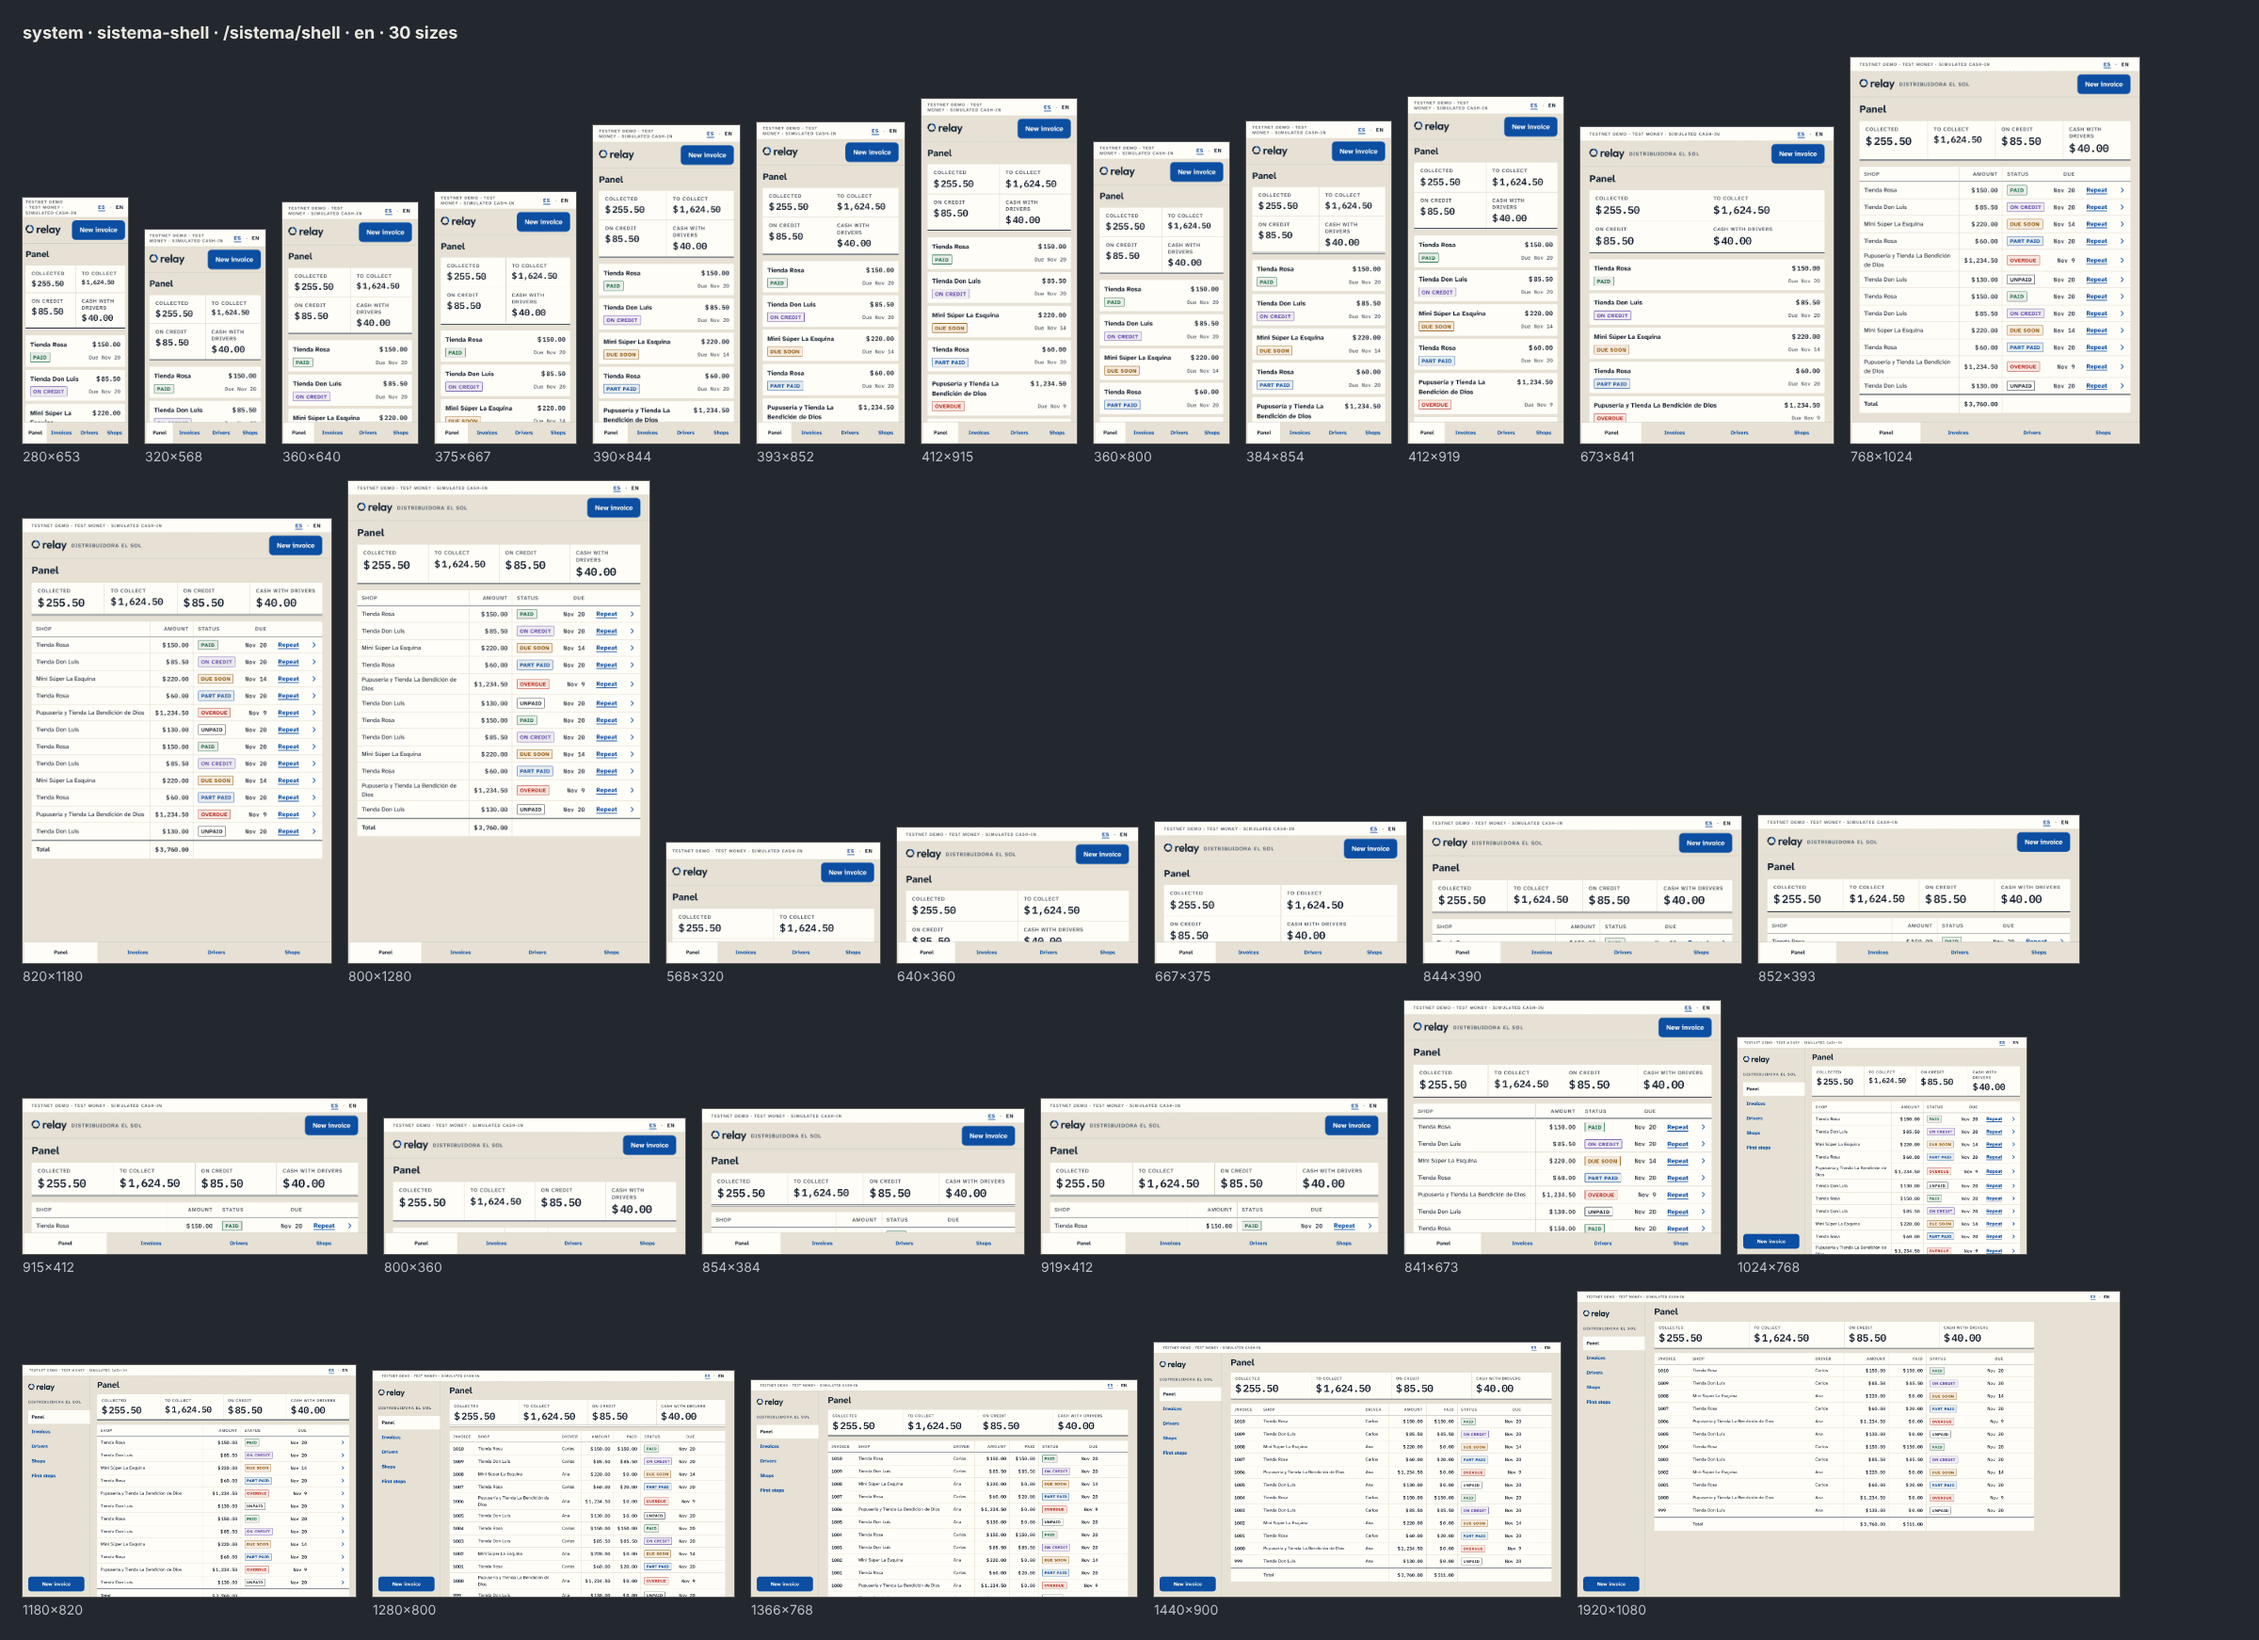
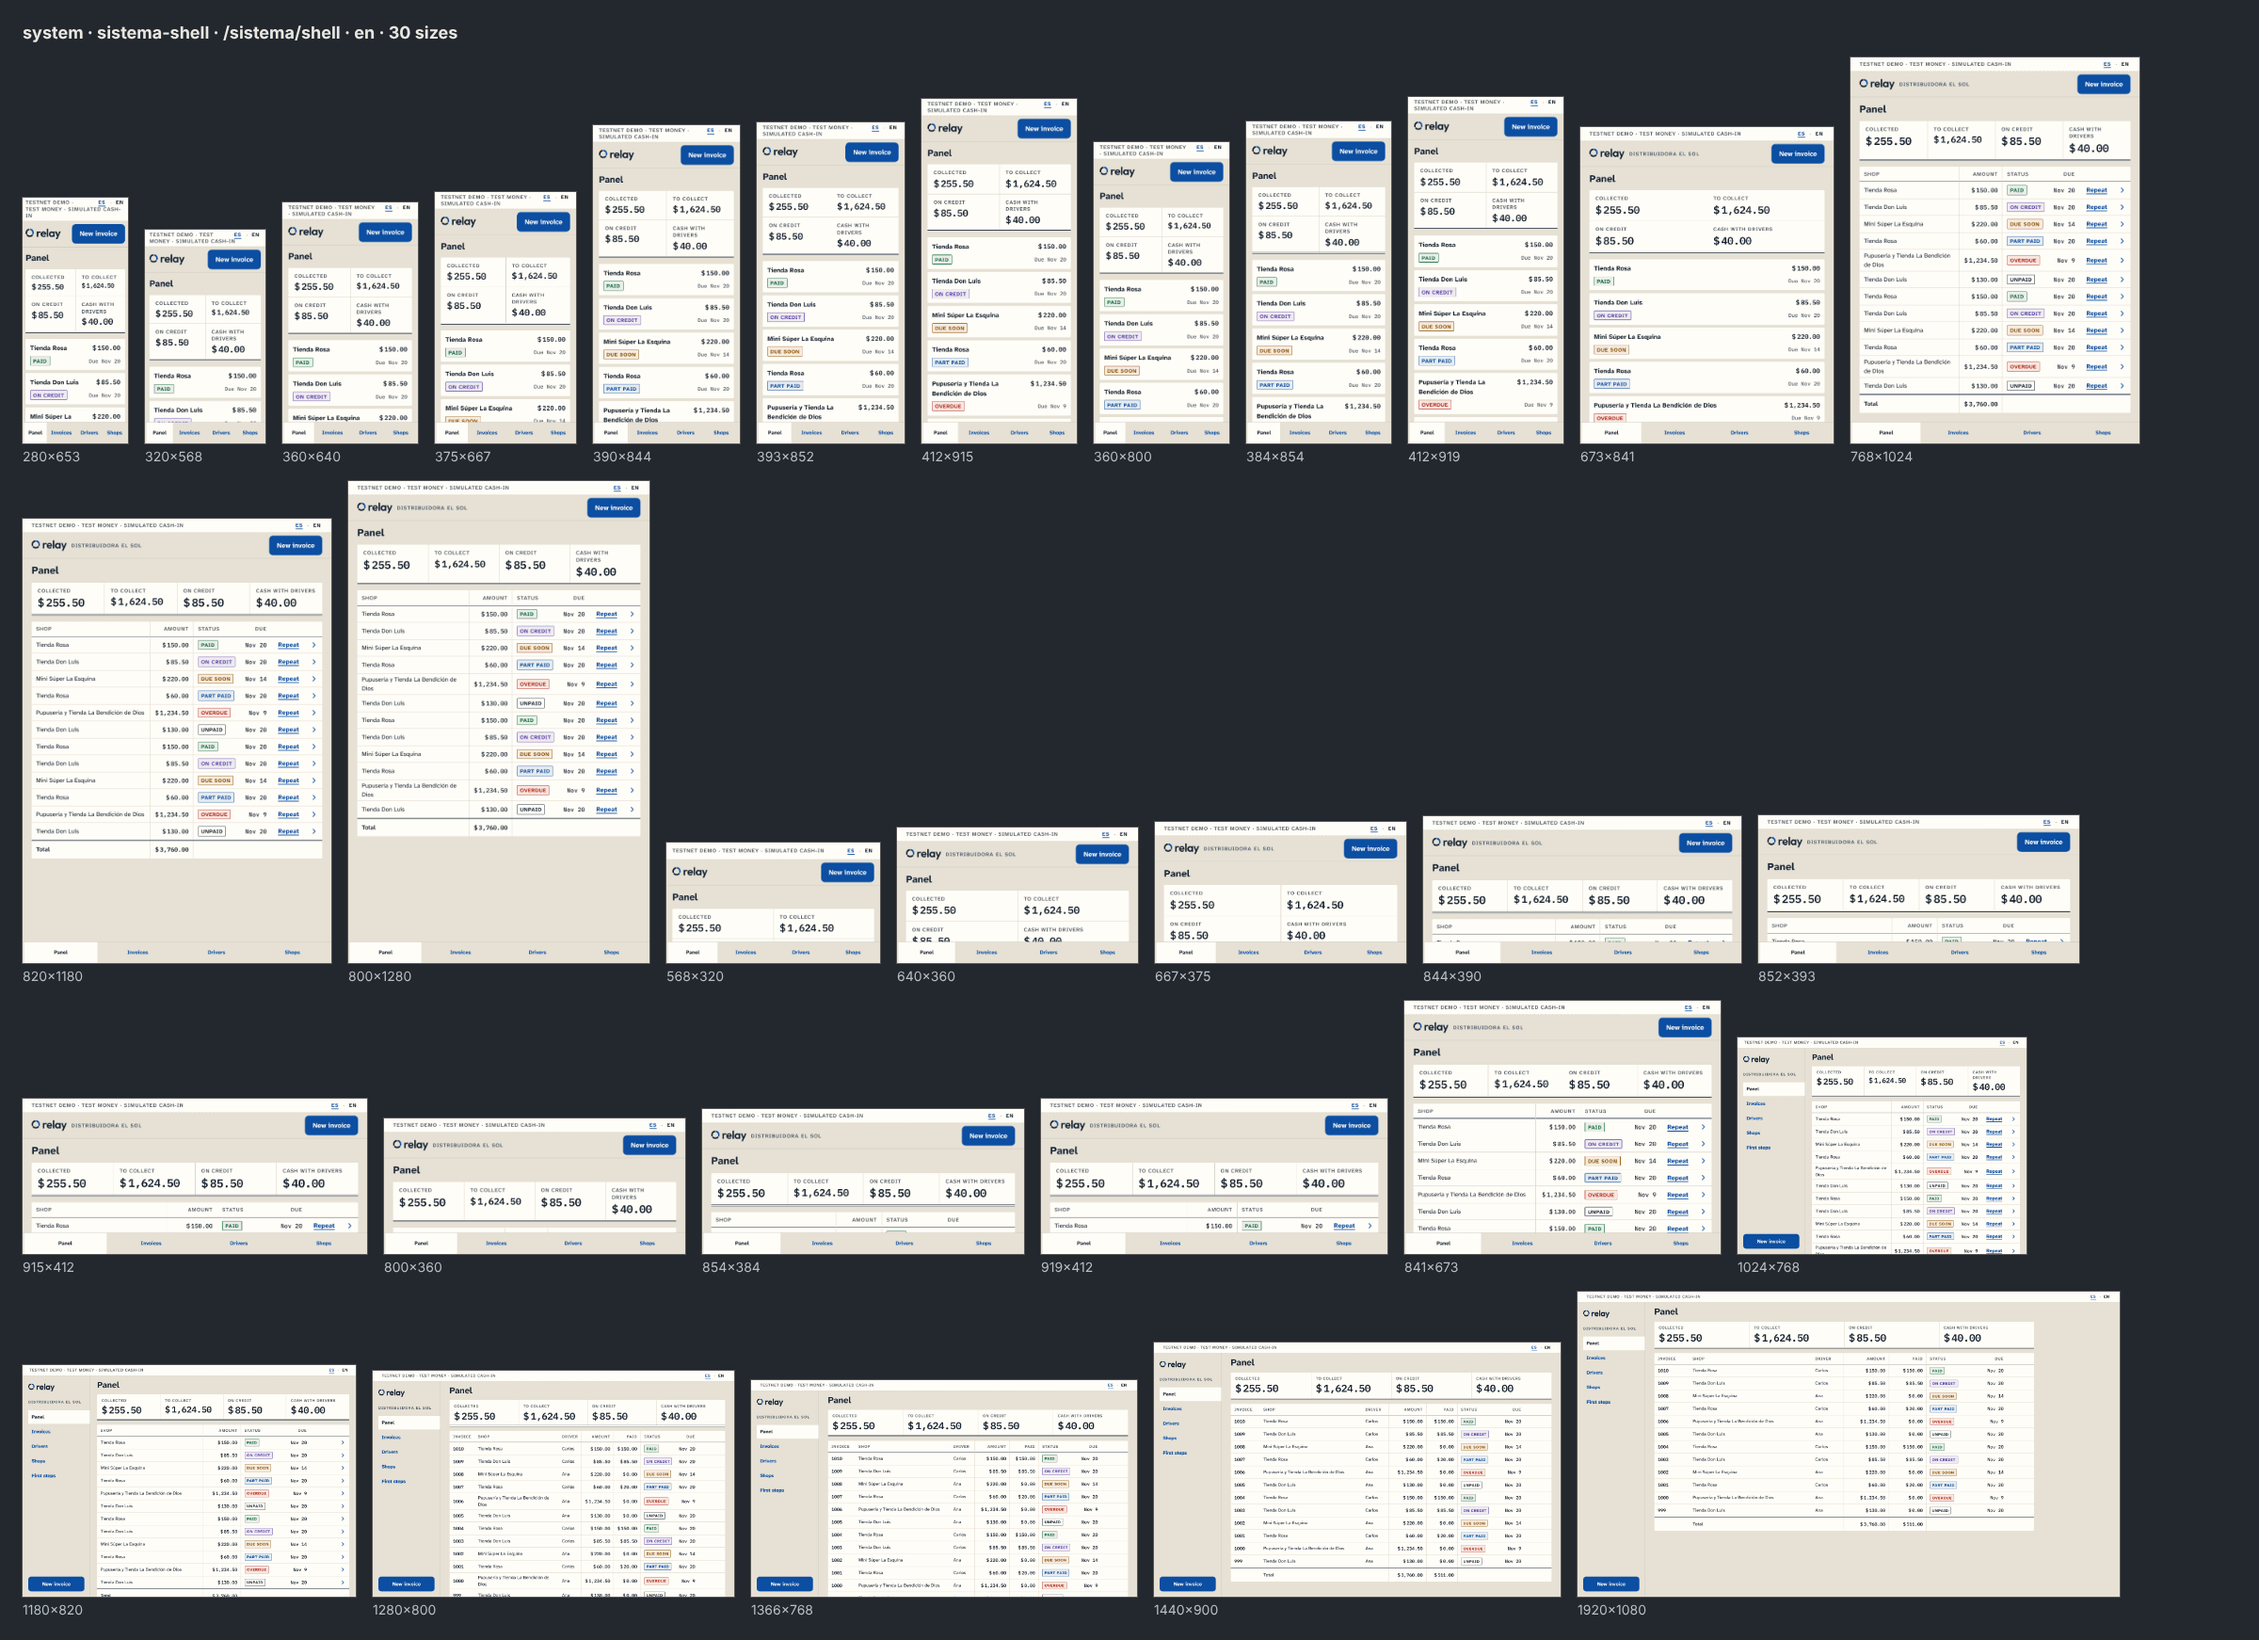
Testnet band at label size (14 px); /sistema not listed by search engines
From Jack's review of #160.
- The band's words were 11 px. They are 14 px now, like every label. The language switch floats at the end of
  the first line, so on a phone the words get the whole width for their second line: the band keeps its
  height from 360 px wide up (two lines), and takes three lines at 320 px and on a folded phone.
- /sistema, /sistema/split and /sistema/shell carry a noindex. Nothing in the app links to them.
- Contact sheets redone in Spanish and English.

Claude-Session: https://claude.ai/code/session_012ShQunHBCKC4ExxJXGqHGf

Changed region(s): [[0.0, 0.124, 0.0625, 0.248], [0.3438, 0.062, 0.375, 0.093], [0.125, 0.124, 0.1562, 0.155]]

diff --git a/components/kit/band.tsx b/components/kit/band.tsx
@@ -12,7 +12,7 @@ export function LangSwitch() {
       aria-pressed={lang === value}
       aria-label={name}
       lang={value}
-      className={`relative min-h-(--band-h) min-w-11 px-2 text-label font-bold tracking-[0.08em] before:absolute before:inset-x-0 before:-bottom-2 before:top-0 ${
+      className={`relative h-4 min-w-11 px-2 text-label/4 font-bold tracking-[0.08em] before:absolute before:inset-x-0 before:-top-3 before:-bottom-4 ${
         lang === value ? "text-ink" : "text-brand underline decoration-2 underline-offset-4"
       }`}
     >
@@ -20,7 +20,8 @@ export function LangSwitch() {
     </button>
   );
   return (
-    <div role="group" aria-label="Idioma / Language" className="-mr-2 flex shrink-0 items-center">
+    // One line tall, so the band's words run under it from their second line on. Each button's tap area reaches past its letters (44 px).
+    <div role="group" aria-label="Idioma / Language" className="float-right -mr-2 ml-3 flex h-4 items-center text-label/4">
       {option("es", "ES", "Español")}
       <span aria-hidden className="text-muted">
         ·
@@ -33,16 +34,20 @@ export function LangSwitch() {
 /**
  * The thin band above every screen, like the MUESTRA or COPIA marking on a slip: this is a demo.
  * It stays at the top while the screen scrolls, and holds the language switch.
+ * Its words are label size (14 px), never smaller: the demo has to say on screen that the cash-in is simulated.
  */
 export function TestnetBand() {
   const { t } = useT();
   return (
     <div className="sticky top-0 z-5 border-b border-dashed border-counter-rule bg-paper pt-[env(safe-area-inset-top)]">
-      <div className="flex min-h-(--band-h) items-center justify-between gap-3 pl-[max(var(--gutter),env(safe-area-inset-left))] pr-[max(var(--gutter),env(safe-area-inset-right))]">
-        <p className="py-1 text-[0.6875rem]/[1.3] font-semibold uppercase tracking-[0.14em] text-muted text-balance">
-          {t("Demo en testnet · dinero de prueba · cash-in simulado", "Testnet demo · test money · simulated cash-in")}
-        </p>
-        <LangSwitch />
+      <div className="flex min-h-(--band-h) items-center py-1 pl-[max(var(--gutter),env(safe-area-inset-left))] pr-[max(var(--gutter),env(safe-area-inset-right))]">
+        {/* The switch floats at the end of the first line: on a phone the words get the whole width for their second line. */}
+        <div className="flow-root w-full">
+          <LangSwitch />
+          <p className="text-label/[1.25] font-semibold uppercase tracking-[0.08em] text-muted">
+            {t("Demo en testnet · dinero de prueba · cash-in simulado", "Testnet demo · test money · simulated cash-in")}
+          </p>
+        </div>
       </div>
     </div>
   );

diff --git a/app/sistema/layout.tsx b/app/sistema/layout.tsx
@@ -1,0 +1,9 @@
+import type { Metadata } from "next";
+import type { ReactNode } from "react";
+
+/** The component samples are for the team: nothing in the app links to them, and search engines are told not to list them. */
+export const metadata: Metadata = { robots: { index: false, follow: false } };
+
+export default function SistemaLayout({ children }: { children: ReactNode }) {
+  return children;
+}
